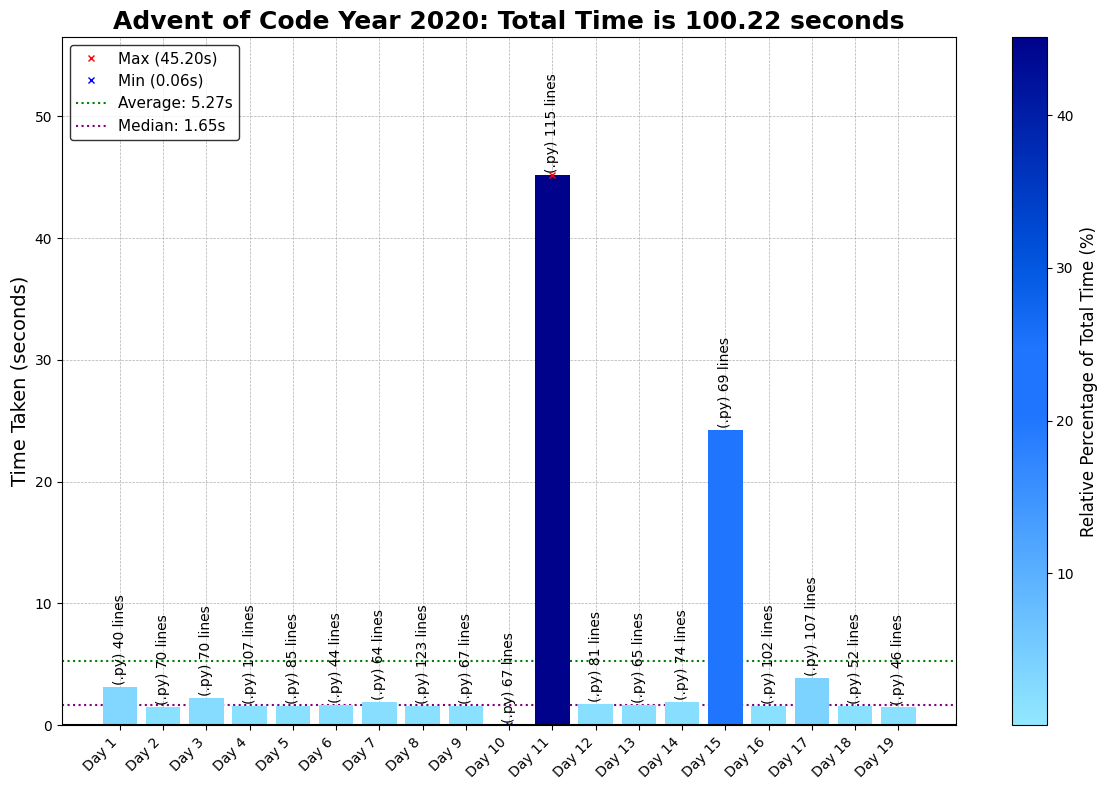
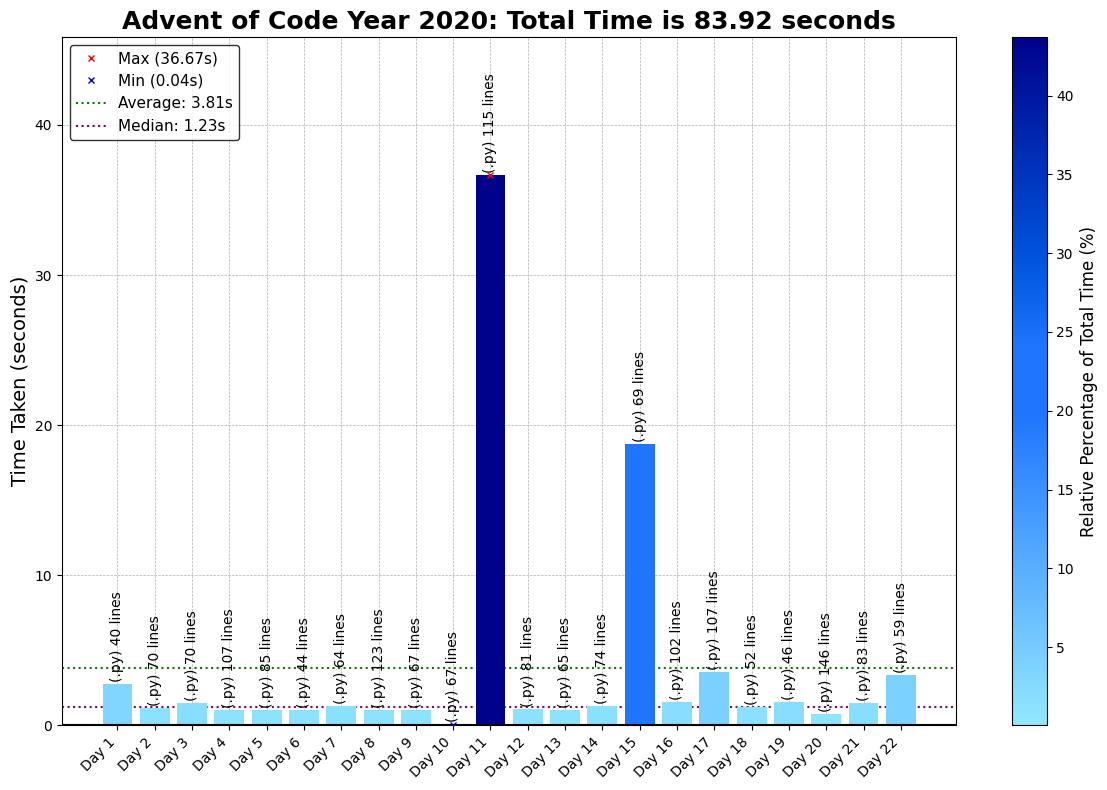
2020 Day 20, 21 & 22

diff --git a/2020/20/2020Day20.py b/2020/20/2020Day20.py
@@ -1,0 +1,146 @@
+# Advent of Code - Day 20, Year 2020
+# Solution Started: Nov 22, 2024
+# Puzzle Link: https://adventofcode.com/2020/day/20
+# Solution by: [abbasmoosajee07]
+# Brief: [Arranging grids]
+
+#!/usr/bin/env python3
+
+import os, re, copy
+import numpy as np
+from math import prod
+from scipy.ndimage import convolve
+
+# Load the input data from the specified file path
+D20_file = "Day20_input.txt"
+D20_file_path = os.path.join(os.path.dirname(os.path.abspath(__file__)), D20_file)
+
+# Read and sort input data into a grid
+with open(D20_file_path) as file:
+    input_data = file.read().strip().split('\n\n')
+
+def create_grid_list(input):
+    grid_list = []
+    for grid_entry in input:
+        tile, grid = grid_entry.split(':')
+        grid_array = np.array([list(row) for row in grid.split('\n') if list(row) != []])
+        tile_no = int(tile.strip('Tile '))
+        grid_list.append([tile_no, grid_array])
+    return grid_list
+
+# Extract edges
+def get_edges(tile_grid):
+    """Returns all edges (and their reversed versions) of a tile grid."""
+    top = tile_grid[0, :]
+    bottom = tile_grid[-1, :]
+    left = tile_grid[:, 0]
+    right = tile_grid[:, -1]
+    return [top, right, bottom, left, top[::-1], right[::-1], bottom[::-1], left[::-1]]
+
+# Find matching tiles
+def find_matching_tiles(grid_list):
+    """Finds tiles that share edges and returns a mapping."""
+    edge_map = {}  # Maps edge to the tiles that have it
+    tile_edges = {}  # Maps tile number to its edges
+
+    for tile_id, grid in grid_list:
+        edges = get_edges(grid)
+        tile_edges[tile_id] = edges
+        for edge in edges:
+            edge_str = ''.join(edge)
+            if edge_str not in edge_map:
+                edge_map[edge_str] = []
+            edge_map[edge_str].append(tile_id)
+    
+    # Find neighbors for each tile
+    matches = {}
+    for tile_id, edges in tile_edges.items():
+        matches[tile_id] = []
+        for edge in edges:
+            edge_str = ''.join(edge)
+            # Find other tiles that share this edge
+            neighbors = [t for t in edge_map[edge_str] if t != tile_id]
+            matches[tile_id].extend(neighbors)
+    return matches
+
+# Identify corner tiles
+def find_corner_tiles(matches):
+    """Finds tiles with exactly 2 matches (corner tiles)."""
+    return [tile for tile, neighbors in matches.items() if len(set(neighbors)) == 2]
+
+# Main function to solve the puzzle
+
+# Find tile matches
+grid_list = create_grid_list(input_data)
+tile_matches = find_matching_tiles(grid_list)
+
+# Part 1: Identify corner tiles and multiply their IDs
+corner_tiles = find_corner_tiles(tile_matches)
+corner_product = prod(corner_tiles)
+print(f"Part 1: {corner_product}")
+
+T = [lambda x:x[:],
+     lambda x:x.T[::-1],
+     lambda x:x[::-1,::-1],
+     lambda x:x[::-1].T,
+     lambda x:x[::-1],
+     lambda x:x.T,
+     lambda x:x[:,::-1],
+     lambda x:x[::-1,::-1].T]
+
+model=np.array([[1,2],[3,4]])
+ref = {tuple(tr(model).flat):k for k,tr in enumerate(T)}
+Tmul = np.array([[ref[tuple(tb(ta(model)).flat)] for tb in T] for ta in T])
+Tinv = np.argwhere(Tmul==0)[:,1]
+
+def parse(photo):
+    photo=photo.replace("#","1").replace(".","0")
+    header,*pixels=photo.split("\n")
+    id_=int(header[5:-1])
+    pixels=np.array([list(p) for p in pixels])
+    edges=[int("".join(tr(pixels)[0]),2) for tr in T]
+    return id_,pixels.astype(int),edges
+
+def populate(ps,links,i_dest0,trans0,i_src0):
+    for dir_,index_diff in enumerate([-12,1,12,-1]):
+        edge_out0=Tmul[trans0,dir_]
+        i_src1,edge_match1=links[i_src0,edge_out0]
+        i_dest1=i_dest0+index_diff
+        if i_src1>-1 and -1<i_dest1<len(ps) and ps[i_dest1][0]==-1:
+            trans_fit1=Tmul[edge_match1,Tinv[(edge_out0+4)%8]]
+            trans1=Tmul[trans_fit1,trans0]
+            ps[i_dest1]=trans1,i_src1
+            populate(ps,links,i_dest1,trans1,i_src1)
+
+def answers(raw):
+    ids,pixels,edges=map(np.array,zip(*map(parse,raw)))
+    L=len(edges)
+
+    ms=np.argwhere(edges[:,:,None,None]==edges)
+    ms=ms[ms[:,0]!=ms[:,2]]
+    links=np.full((L,8,2),-1)
+    links[tuple(ms[:,:2].T)]=ms[:,2:]
+
+    ps=np.full((2*L,2),-1)
+    ps[L]=0,0
+    populate(ps,links,L,0,0)
+    ps=ps[ps[:,0]!=-1]
+
+    yield np.prod(ids[ps[[0,11,-12,-1],1]],dtype=np.int64)
+
+    tr_pixels=[T[tr](pixels[i_src])[1:-1,1:-1] for tr,i_src in ps]
+    full_image=np.reshape(tr_pixels,(12,12,8,8))
+    full_image=np.moveaxis(full_image,2,1).reshape(96,96)
+    kernel=["                  #  ",
+            "#    ##    ##    ### ",
+            " #  #  #  #  #  #    "]
+    kernel=(np.array([list(row) for row in kernel])=="#").astype(int)
+    N=kernel.sum()
+    matches=[convolve(full_image,tr(kernel),mode="constant")==N for tr in T]
+    
+    yield np.sum(full_image)-np.sum(matches)*N
+
+
+results = list(answers(input_data))
+print(f"Part 2: {results[1]}")
+

diff --git a/2020/21/2020Day21.py b/2020/21/2020Day21.py
@@ -1,0 +1,83 @@
+# Advent of Code - Day 21, Year 2020
+# Solution Started: Nov 22, 2024
+# Puzzle Link: https://adventofcode.com/2020/day/21
+# Solution by: [abbasmoosajee07]
+# Brief: [Allergens and ingredients]
+
+#!/usr/bin/env python3
+
+import os, re, copy
+import numpy as np
+import pandas as pd
+import matplotlib.pyplot as plt
+
+# Load the input data from the specified file path
+D21_file = "Day21_input.txt"
+D21_file_path = os.path.join(os.path.dirname(os.path.abspath(__file__)), D21_file)
+
+# Read and sort input data into a grid
+with open(D21_file_path) as file:
+    input_data = file.read().strip().split('\n')
+
+def parse(line):
+    # Split the line into ingredients and allergens
+    ingredients_part, allergens_part = line[:-1].split(" (contains")
+    
+    # Clean and split the ingredients and allergens into sets
+    ingredients = set(ingredients_part.split())
+    allergens = set(allergens_part.replace(" ", "").split(","))
+    
+    return ingredients, allergens
+
+# Parse each line and group by ingredients and allergens
+parsed_data = [parse(line) for line in input_data]
+
+# Unzip the parsed data into two separate lists: all ingredients and all allergens
+ingredient_sets, allergen_sets = zip(*parsed_data)
+
+# Get all unique ingredients and allergens
+all_ingredients = set.union(*ingredient_sets)
+all_allergens = set.union(*allergen_sets)
+
+# Map allergens to their possible ingredients
+allergen_to_possible_ingredients = {
+    allergen: set.intersection(*[ingredients for ingredients, allergens in zip(ingredient_sets, allergen_sets) if allergen in allergens])
+    for allergen in all_allergens
+}
+
+# Identify allergen-ingredient pairs, reducing possibilities as we go
+allergen_ingredient_pairs = []
+
+while allergen_to_possible_ingredients:
+    # Find the allergen with only one possible ingredient
+    allergen, possible_ingredients = next(
+        (key, value) for key, value in allergen_to_possible_ingredients.items() if len(value) == 1
+    )
+    
+    # Add the allergen-ingredient pair and remove it from other allergen possibilities
+    ingredient = list(possible_ingredients)[0]
+    allergen_ingredient_pairs.append((allergen, ingredient))
+    del allergen_to_possible_ingredients[allergen]
+    
+    # Remove the identified ingredient from other allergen sets
+    for remaining_ingredients in allergen_to_possible_ingredients.values():
+        remaining_ingredients.discard(ingredient)
+
+# Get the free ingredients (those not associated with any allergen)
+_, free_ingredients = zip(*sorted(allergen_ingredient_pairs))
+
+# Identify the ingredients that could contain allergens
+allergenic_ingredients = all_ingredients - set(free_ingredients)
+
+# Part 1: Count how many times allergenic ingredients appear in the food lists
+ans_p1 = sum(
+    sum(1 for ingredient in food if ingredient in allergenic_ingredients) for food in ingredient_sets
+)
+
+# Part 2: Return the list of free ingredients associated with allergens, sorted alphabetically
+ans_p2 = ",".join(free_ingredients)
+
+
+# Print the results
+print("Part 1:", ans_p1)  # Part 1 result
+print("Part 2:", ans_p2)  # Part 2 result

diff --git a/2020/22/2020Day22_P2.py b/2020/22/2020Day22_P2.py
@@ -1,0 +1,67 @@
+# Advent of Code - Day 22, Year 2020
+# Solution Started: Nov 22, 2024
+# Puzzle Link: https://adventofcode.com/2020/day/22
+# Solution by: [abbasmoosajee07]
+# Brief: [Card Games, V2 Recursicve Combat]
+
+#!/usr/bin/env python3
+
+import os, re, copy
+import numpy as np
+import pandas as pd
+import matplotlib.pyplot as plt
+
+# Load the input data from the specified file path
+D22_file = "Day22_input.txt"
+D22_file_path = os.path.join(os.path.dirname(os.path.abspath(__file__)), D22_file)
+
+# Read and sort input data into a grid
+with open(D22_file_path) as file:
+    input_data = file.read().strip().split('\n\n')
+    player_1_init = [int(row) for row in input_data[0].strip('Player 1: ').split('\n') if row != '']
+    player_2_init = [int(row) for row in input_data[1].strip('Player 2: ').split('\n') if row != '']
+
+def game(player_1, player_2):  # player X & Y
+    occur = []  # To detect infinite loops (previous round states)
+    while player_1 and player_2:
+        if player_1 in occur:  # Cycle detection: if the state repeats, player 1 wins
+            return player_1, True  # Player 1 wins
+        else:
+            occur.append(player_1[:])  # Record the current state of player X's deck
+        
+        card_1, card_2 = player_1.pop(0), player_2.pop(0)  # Draw the top cards
+
+        # If both players have enough cards to play a sub-game
+        if card_1 <= len(player_1) and card_2 <= len(player_2):
+            _, flag = game(player_1[:card_1], player_2[:card_2])  # Recursively play a sub-game
+            if flag:  # If player 1 wins the sub-game
+                player_1.append(card_1)
+                player_1.append(card_2)
+            else:  # If player 2 wins the sub-game
+                player_2.append(card_2)
+                player_2.append(card_1)
+        else:
+            # Regular round: the higher card wins
+            if card_1 > card_2:
+                player_1.append(card_1)
+                player_1.append(card_2)
+                flag = True  # Player 1 wins the round
+            else:
+                player_2.append(card_2)
+                player_2.append(card_1)
+                flag = False  # Player 2 wins the round
+
+    # Return the winner's deck and the result flag
+    return (player_1 if player_1 else player_2), flag
+
+# Play the game and get the winner's deck
+winning_cards = game(player_1_init[:], player_2_init[:])[0]
+
+# Calculate Winning Score
+total_score = 0
+len_cards = len(winning_cards)
+for pos_n, card in enumerate(winning_cards):
+    pos = len_cards - pos_n
+    total_score += card * pos
+
+print("Part 2:", total_score)

diff --git a/2020/22/2020Day22_P1.py b/2020/22/2020Day22_P1.py
@@ -1,0 +1,59 @@
+# Advent of Code - Day 22, Year 2020
+# Solution Started: Nov 22, 2024
+# Puzzle Link: https://adventofcode.com/2020/day/22
+# Solution by: [abbasmoosajee07]
+# Brief: [Card Games, V1]
+
+#!/usr/bin/env python3
+
+import os, re, copy
+import numpy as np
+import pandas as pd
+import matplotlib.pyplot as plt
+
+# Load the input data from the specified file path
+D22_file = "Day22_input.txt"
+D22_file_path = os.path.join(os.path.dirname(os.path.abspath(__file__)), D22_file)
+
+# Read and sort input data into a grid
+with open(D22_file_path) as file:
+    input_data = file.read().strip().split('\n\n')
+    player_1_init = [int(row) for row in input_data[0].strip('Player 1: ').split('\n') if row != '']
+    player_2_init = [int(row) for row in input_data[1].strip('Player 2: ').split('\n') if row != '']
+
+def play_round(player_1, player_2):
+    p1_card = player_1[0]
+    player_1.pop(0)
+
+    p2_card = player_2[0]
+    player_2.pop(0)
+
+    if p1_card > p2_card:
+        player_1.append(p1_card)
+        player_1.append(p2_card)
+    elif p1_card < p2_card:
+        player_2.append(p2_card)
+        player_2.append(p1_card)
+    return player_1, player_2
+
+player_1_cards = player_1_init
+player_2_cards = player_2_init
+
+for round in range(10**7):
+    
+    player_1_cards, player_2_cards = play_round(player_1_cards, player_2_cards)
+    if len(player_1_cards) <= 0:
+        winning_cards = player_2_cards
+        break
+    elif len(player_2_cards) <= 0:
+        winning_cards = player_1_cards
+        break
+
+# Calculate Winning Score
+total_score = 0
+len_cards = len(winning_cards)
+for pos_n, card in enumerate(winning_cards):
+    pos = len_cards - pos_n
+    total_score += card * pos
+
+print("Part 1:", total_score)

diff --git a/2020/19/2020Day19.py b/2020/19/2020Day19.py
@@ -2,7 +2,7 @@
 # Solution Started: Nov 22, 2024
 # Puzzle Link: https://adventofcode.com/2020/day/19
 # Solution by: [abbasmoosajee07]
-# Brief: [Code/Problem Description]
+# Brief: [Regex and message rules]
 
 #!/usr/bin/env python3
 

diff --git a/2020/Run_2020.py b/2020/Run_2020.py
@@ -2,7 +2,7 @@
 # Solved in 2024
 # Puzzle Link: https://adventofcode.com/2018
 # Solution by: [abbasmoosajee07]
-# Brief: [Run all 2019 scripts]
+# Brief: [Run all 2020 scripts]
 
 
 #!/usr/bin/env python3

diff --git a/2020/README_2020.md b/2020/README_2020.md
@@ -30,6 +30,10 @@ This repository contains coding solutions for the 2020 Advent of Code, with prob
 24. **Day 24 - Lobby Layout**: Model hexagonal grid changes based on a sequence of moves, using set-based toggling.
 25. **Day 25 - Combo Breaker**: Implement the Diffie-Hellman key exchange protocol for cryptographic handshakes.
 
+**Revisit later: take too long to run rn**
+- Day 11 takes around 30s in Python
+- Day 15 takes around 20s in Python
+- Day 20 P2, reconsider approach
 ---
 
 The 2020 challenges explore recursion, state management, and set operations, with several puzzles on grid traversal and sequence manipulations.
